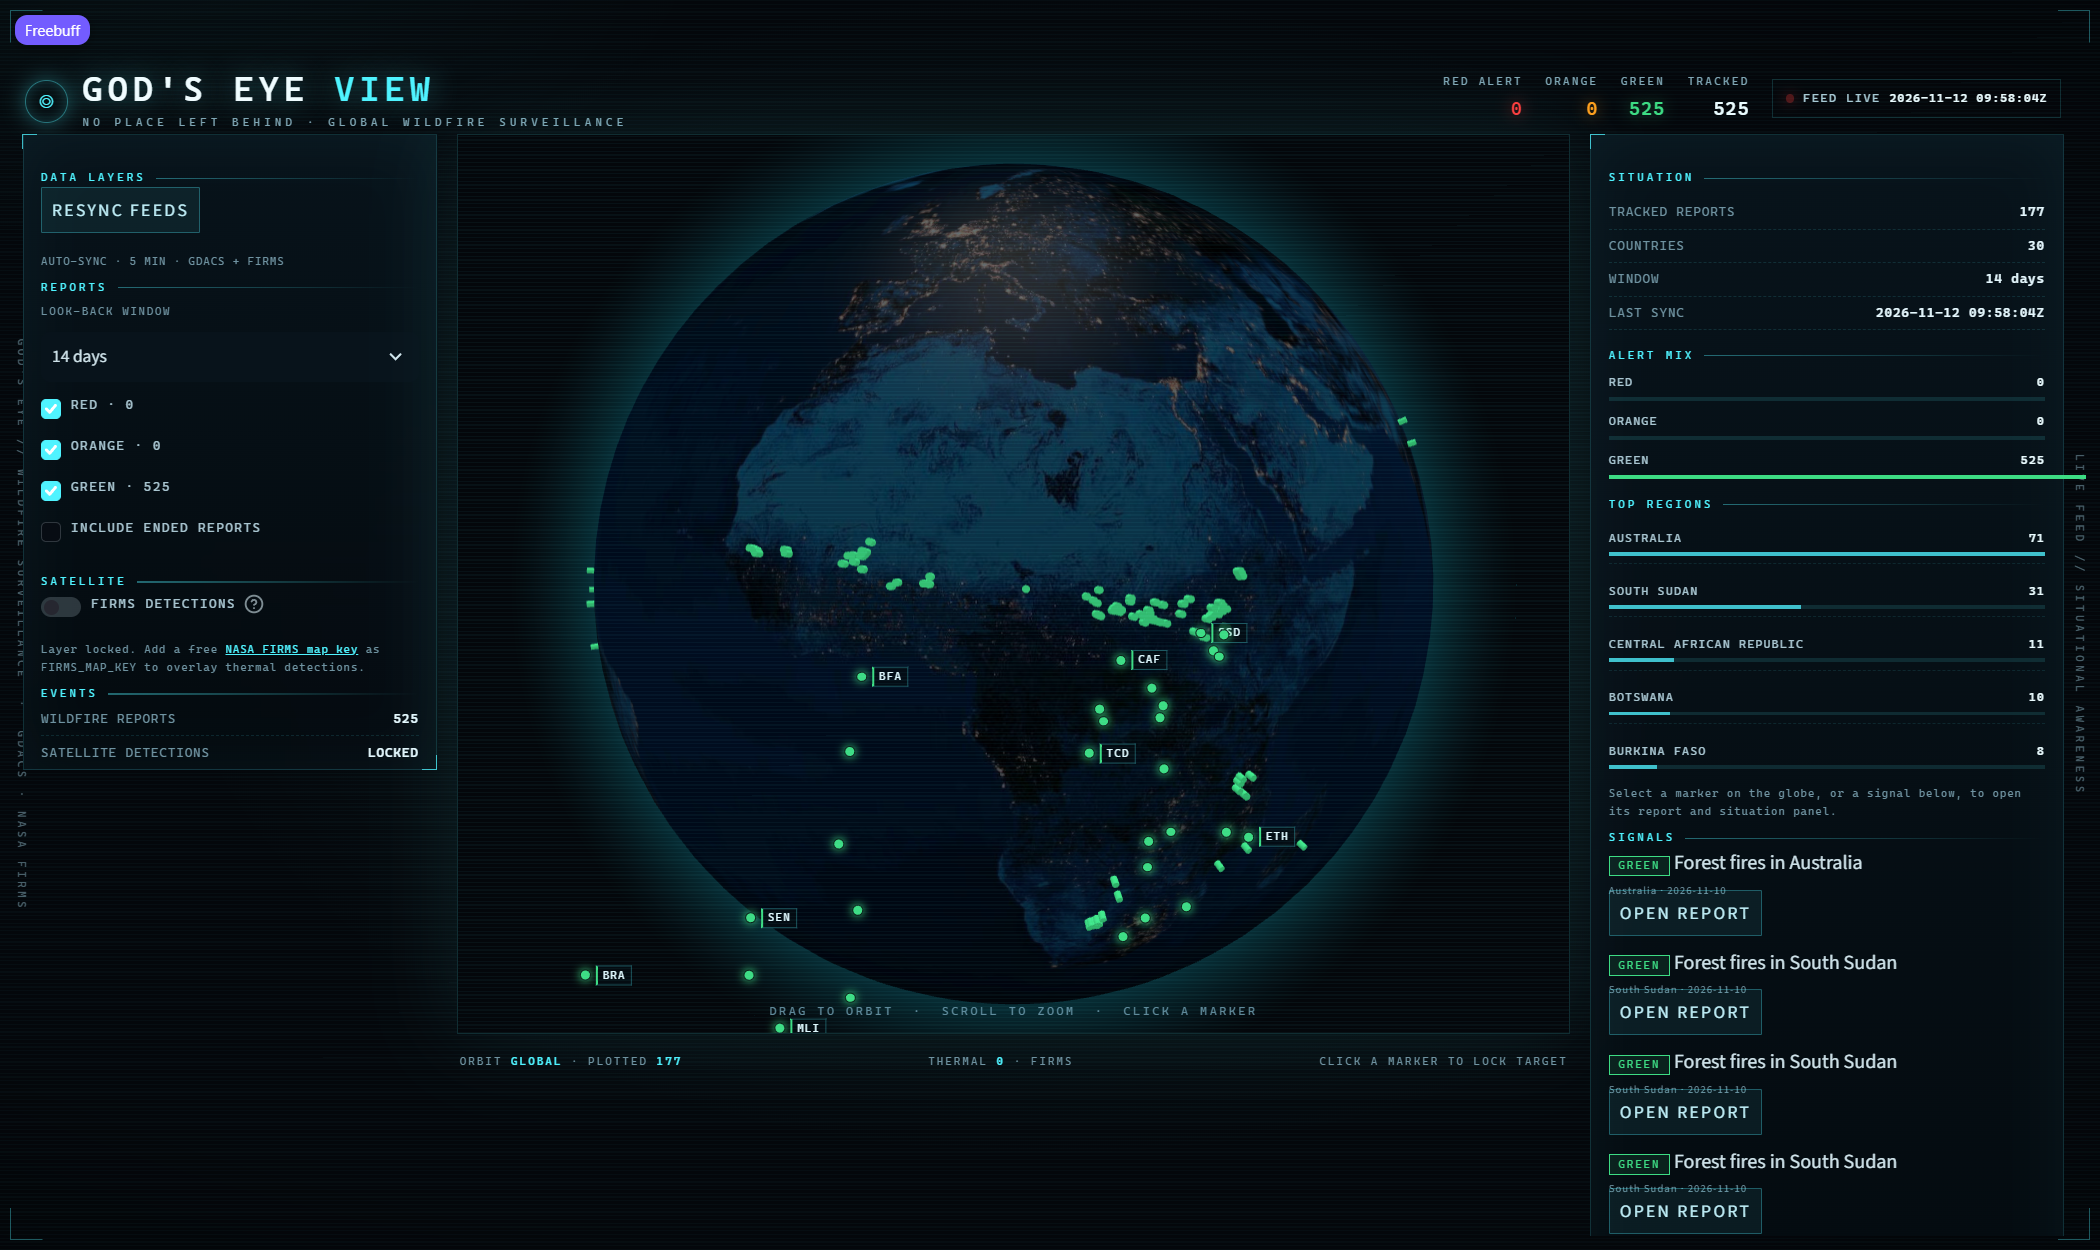
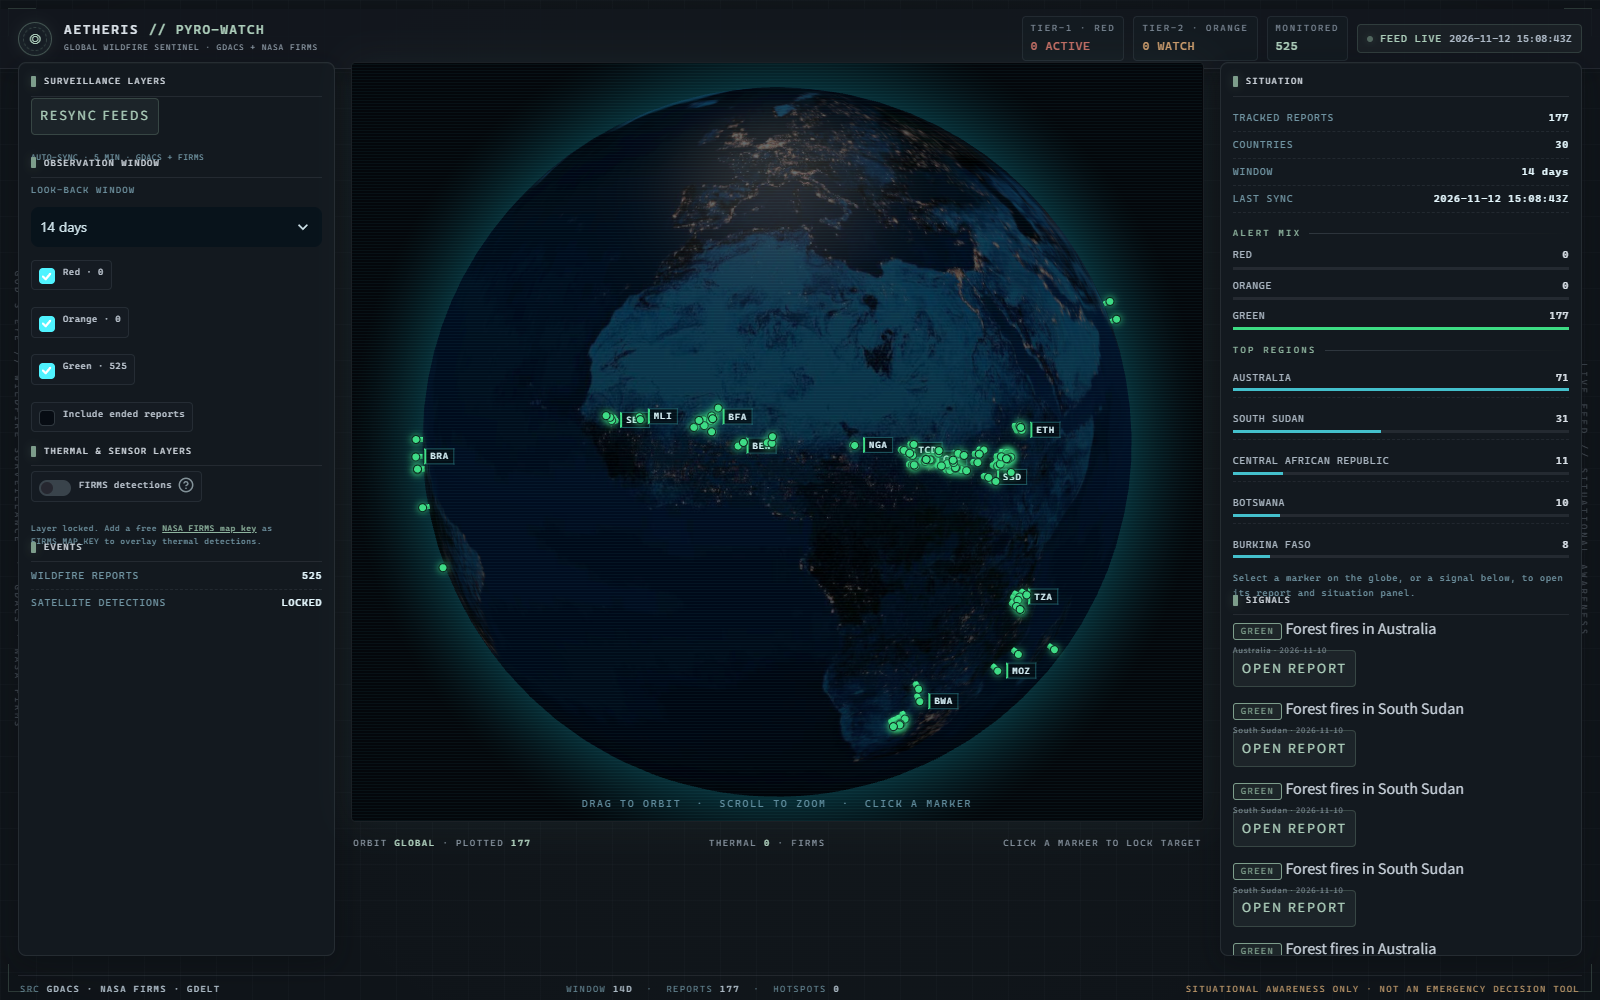
update

diff --git a/README.md b/README.md
@@ -4,11 +4,24 @@
 > forecasts, and documentation may change; do not rely on it for emergency
 > decisions.
 
-The project will estimate whether a wildfire threatens an evacuation zone using
-only information available during the fire's first five hours. The target
-forecast horizons are 12, 24, 48, and 72 hours after that observation window.
+## Project definition
 
-The initial stack is:
+WildFireEvac combines a global wildfire situational-awareness dashboard with an
+offline research pipeline for estimating whether a wildfire may threaten an
+evacuation zone. The dashboard plots official GDACS wildfire reports and
+optional NASA FIRMS near-real-time satellite thermal detections on an
+interactive globe. Users can filter reports, inspect event details, and open
+related headlines.
+
+The research pipeline is designed to estimate threat at 12, 24, 48, and 72
+hours using information from a fire's first five hours. Those model forecasts
+are not currently connected to the live dashboard. FIRMS detections are
+satellite observations, not verified fire perimeters, evacuation boundaries,
+or forecasts; this project is not an emergency-decision tool.
+
+## Modeling approach
+
+The initial modeling stack is:
 
 - Python for the data and modeling pipeline
 - pandas for tabular data preparation
@@ -68,7 +81,7 @@ NASA FIRMS map key (register on the [FIRMS API map key
 page](https://firms.modaps.eosdis.nasa.gov/api/map_key/)). Without a key, the
 map still shows reports and explains how to add hotspots.
 
-<img src="docs/screenshots/hud.png" alt="GOD'S EYE VIEW console with the global wildfire globe and a locked report" width="900">
+<img src="docs/screenshots/hud.png" alt="Current Aetheris Pyro-Watch dashboard showing GDACS wildfire reports on the interactive globe; FIRMS is locked until a map key is configured" width="1200">
 
 To enable satellite hotspots, set `FIRMS_MAP_KEY` for the current PowerShell
 session without echoing the value. Then launch the app:
